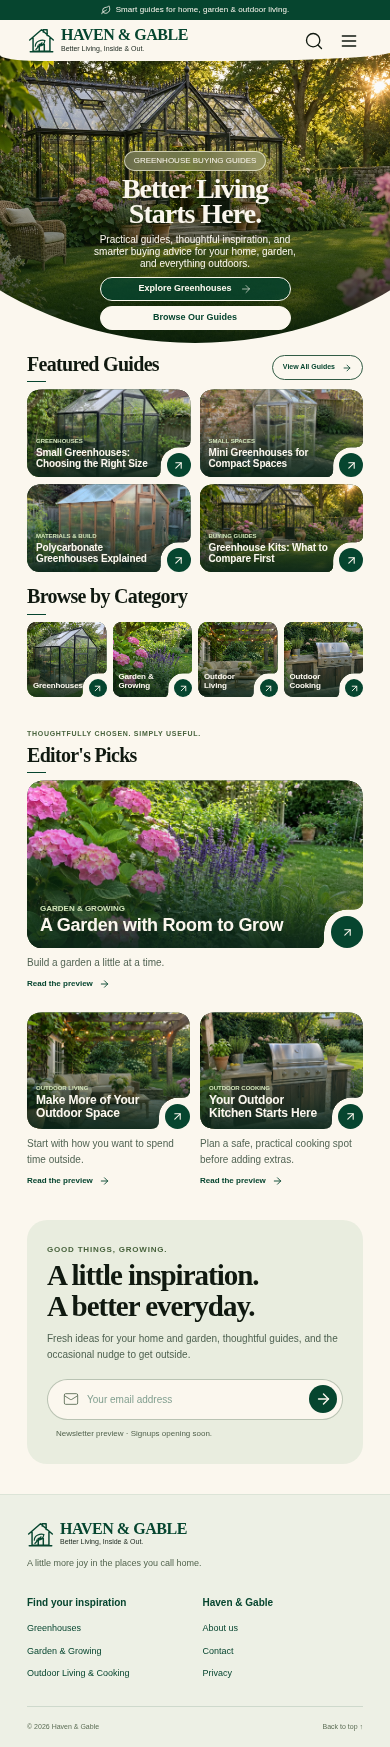
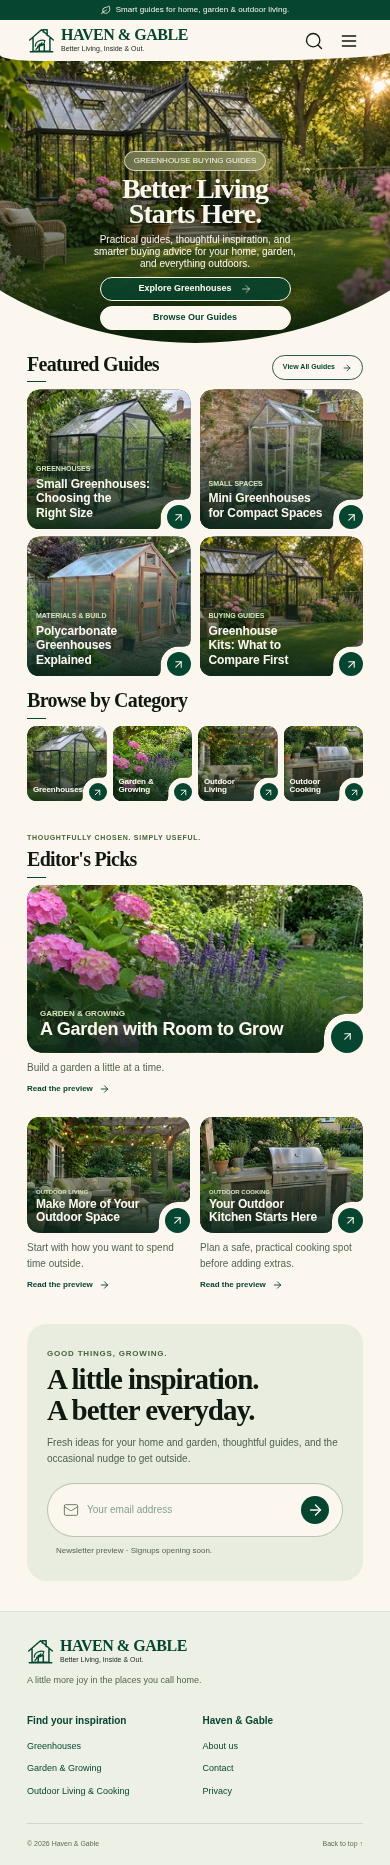
Refine mobile guide readability, touch targets, and responsive imagery

diff --git a/src/styles/globals.css b/src/styles/globals.css
@@ -363,6 +363,9 @@ section[id] {
   position: relative;
   aspect-ratio: 1.86;
   isolation: isolate;
+  width: 100%;
+  min-width: 44px;
+  min-height: 44px;
   border-radius: var(--corner);
   outline-offset: 5px;
 }
@@ -430,6 +433,16 @@ section[id] {
   transition:
     background 0.2s,
     color 0.2s;
+}
+/* Expand the arrow's hit area inward, without changing the visible disc,
+   SVG silhouette, radial gap, or adjacent cards' targets. */
+.card-arrow::after {
+  content: "";
+  position: absolute;
+  right: 0;
+  bottom: 0;
+  width: max(44px, 100%);
+  height: max(44px, 100%);
 }
 .card-arrow svg {
   width: 21px;
@@ -949,6 +962,25 @@ section[id] {
     letter-spacing: -0.015em;
     text-wrap: initial;
   }
+  .notched-card--guide {
+    min-height: 140px;
+    aspect-ratio: 1.4;
+  }
+  .notched-card--guide .card-copy {
+    right: 35px;
+    bottom: 9px;
+  }
+  .notched-card--guide .card-badge {
+    font-size: 7px;
+    line-height: 1.2;
+    margin-bottom: 3px;
+  }
+  .notched-card--guide h3 {
+    font-size: 12px;
+    line-height: 1.22;
+    letter-spacing: -0.01em;
+    text-wrap: balance;
+  }
   .card-arrow svg {
     width: 13px;
     height: 13px;
@@ -1139,5 +1171,54 @@ section[id] {
   *::after {
     transition: none !important;
     animation: none !important;
+  }
+}
+
+/* Larger invisible hit areas preserve the approved arrow and pill silhouettes.
+   These extend upward into noninteractive copy, never into adjacent controls. */
+.hero .button-green,
+.view-all,
+.text-link {
+  position: relative;
+}
+.hero .button-green::after,
+.view-all::after,
+.text-link::after {
+  content: "";
+  position: absolute;
+  bottom: 0;
+  left: 0;
+  width: max(44px, 100%);
+  height: max(44px, 100%);
+}
+/* Reserve a real 44px box beside the email input, retaining its smaller disc. */
+.email-field button {
+  position: relative;
+  width: 44px;
+  height: 44px;
+  flex-shrink: 0;
+  background: transparent;
+  isolation: isolate;
+}
+.email-field button::before {
+  content: "";
+  position: absolute;
+  width: 34px;
+  height: 34px;
+  border-radius: 50%;
+  background: var(--green);
+  z-index: -1;
+}
+@media (max-width: 699px) {
+  .email-field button::before {
+    width: 28px;
+    height: 28px;
+  }
+}
+
+@media (max-width: 374px) {
+  .notched-card--category:first-child h3 {
+    font-size: 7px;
+    letter-spacing: -0.02em;
   }
 }

diff --git a/components/ui/notched-project-card.tsx b/components/ui/notched-project-card.tsx
@@ -11,6 +11,7 @@ export interface NotchedProjectCardProps {
   image: string;
   imageAlt: string;
   badge?: string;
+  sizes?: string;
   variant?: "guide" | "category" | "editor";
   className?: string;
   onClick?: React.MouseEventHandler<HTMLAnchorElement>;
@@ -27,10 +28,18 @@ export function NotchedProjectCard({
   image,
   imageAlt,
   badge,
+  sizes: imageSizes,
   variant = "guide",
   className,
   onClick,
 }: NotchedProjectCardProps) {
+  const sizes =
+    imageSizes ??
+    (variant === "category"
+      ? "(max-width: 699px) calc((100vw - 72px) / 4), (max-width: 1239px) calc((100vw - 110px) / 4), 282.5px"
+      : variant === "editor"
+        ? "(max-width: 699px) 336px, (max-width: 1239px) calc((100vw - 104px) / 3), 378.7px"
+        : "(max-width: 699px) calc((100vw - 63px) / 2), (max-width: 1239px) calc((100vw - 78px) / 2), 581px");
   const id = `notch-${React.useId().replace(/:/g, "")}`;
   const ref = React.useRef<HTMLAnchorElement>(null);
   const [geometry, setGeometry] = React.useState({
@@ -85,22 +94,14 @@ export function NotchedProjectCard({
         </defs>
       </svg>
       <div className="card-cover" style={{ clipPath: `url(#${id})` }}>
-        <Image
-          src={image}
-          alt={imageAlt}
-          fill
-          sizes={
-            variant === "category"
-              ? "(max-width: 699px) 23vw, 280px"
-              : "(max-width: 699px) 45vw, 580px"
-          }
-        />
+        <Image src={image} alt={imageAlt} fill sizes={sizes} />
         <div className="card-shade" />
         <div className="card-copy">
           {badge && <span className="card-badge">{badge}</span>}
           <h3>{title}</h3>
         </div>
       </div>
+      {/* The arrow shares the full card link; its 44px hit box stays inside it. */}
       <span className="card-arrow" aria-hidden="true">
         <ArrowUpRight />
       </span>

diff --git a/components/homepage.tsx b/components/homepage.tsx
@@ -204,11 +204,16 @@ export default function Homepage() {
               </div>
             )}
             <div className="editors-grid">
-              {picks.map((item) => (
+              {picks.map((item, index) => (
                 <div key={item.id} className="editor-item">
                   <NotchedProjectCard
                     {...item}
                     variant="editor"
+                    sizes={
+                      index === 0
+                        ? "(max-width: 699px) calc(100vw - 54px), (max-width: 1239px) calc((100vw - 104px) / 3), 378.7px"
+                        : "(max-width: 699px) calc((100vw - 64px) / 2), (max-width: 1239px) calc((100vw - 104px) / 3), 378.7px"
+                    }
                     href={`#${item.id}`}
                     onClick={(event) => {
                       event.preventDefault();
@@ -378,6 +383,7 @@ export default function Homepage() {
               width={900}
               height={600}
               className="preview-image"
+              sizes="(max-width: 559px) calc(100vw - 74px), 506px"
             />
             <span className="eyebrow">{article.badge}</span>
             <h2 id="article-preview-title">{article.title}</h2>

diff --git a/lib/image-loader.ts b/lib/image-loader.ts
@@ -1,0 +1,10 @@
+"use client";
+
+import type { ImageLoaderProps } from "next/image";
+
+/** Static export: select locally generated variants, with the approved native
+ * image as the largest candidate. No runtime image service or upscaling. */
+export default function imageLoader({ src, width }: ImageLoaderProps): string {
+  if (width > 1280) return src;
+  return src.replace(/\/([^/]+)\.webp$/, `/responsive/$1-${width}.webp`);
+}

diff --git a/next.config.ts b/next.config.ts
@@ -2,6 +2,11 @@ import type { NextConfig } from "next";
 const nextConfig: NextConfig = {
   output: "export",
   devIndicators: false,
-  images: { unoptimized: true },
+  images: {
+    loader: "custom",
+    loaderFile: "./lib/image-loader.ts",
+    deviceSizes: [360, 480, 640, 780, 960, 1280, 1536],
+    imageSizes: [96, 160, 240, 320],
+  },
 };
 export default nextConfig;

diff --git a/scripts/generate-responsive-images.py b/scripts/generate-responsive-images.py
@@ -1,0 +1,17 @@
+"""Build local responsive variants of the approved photographs (requires Pillow)."""
+from pathlib import Path
+from PIL import Image
+
+root = Path(__file__).resolve().parents[1] / "public" / "images"
+output = root / "responsive"
+output.mkdir(exist_ok=True)
+widths = (96, 160, 240, 320, 360, 480, 640, 780, 960, 1280)
+for source in sorted(root.glob("*.webp")):
+    with Image.open(source) as original:
+        for width in widths:
+            if width > original.width:
+                raise ValueError(f"Refusing to upscale {source.name} to {width}px")
+            height = round(original.height * width / original.width)
+            image = original.resize((width, height), Image.Resampling.LANCZOS)
+            image.save(output / f"{source.stem}-{width}.webp", quality=90, method=6)
+print(f"Generated {len(list(root.glob('*.webp'))) * len(widths)} responsive WebP files.")

diff --git a/README.md b/README.md
@@ -85,3 +85,24 @@ the reference's composition; the screenshot did not include a separate original
 hero image file. The house-and-leaf brand mark is recreated as SVG.
 
 All work is limited to Frontend A. Further pages and integrations await approval.
+
+## Frontend A refinements
+
+Mobile Featured Guides use 12px titles, more vertical room, and a reserved strip
+beside the unchanged notch. All card arrows share their full, keyboard-accessible
+card links. Their inward hit areas are at least 44×44px; every category tile is
+also larger than 44×44px. Other arrow actions have expanded hit areas, with a
+separate 44px newsletter button target that does not overlap the email input.
+The visible arrow discs, SVG notch construction, and 6–9px radial gaps are unchanged.
+
+The approved photos are retained. `next/image` now emits responsive `srcset` and
+`sizes` attributes using a static local loader. Smaller WebP variants are supplied
+from 96px through 1280px, with the approved native image as the largest candidate.
+Card images remain lazy-loaded and the hero remains prioritized. To rebuild
+variants after an intentional source image change, install Pillow and run
+`python scripts/generate-responsive-images.py`. The script never upscales images.
+
+Full-page screenshots include `mobile-360.png`, `mobile.png` (390px),
+`mobile-430.png`, and `desktop.png` (1440px). Viewport checks cover title fit,
+no horizontal overflow, actual expanded arrow taps, all images loading, and
+responsive image selection at standard and higher pixel densities.
